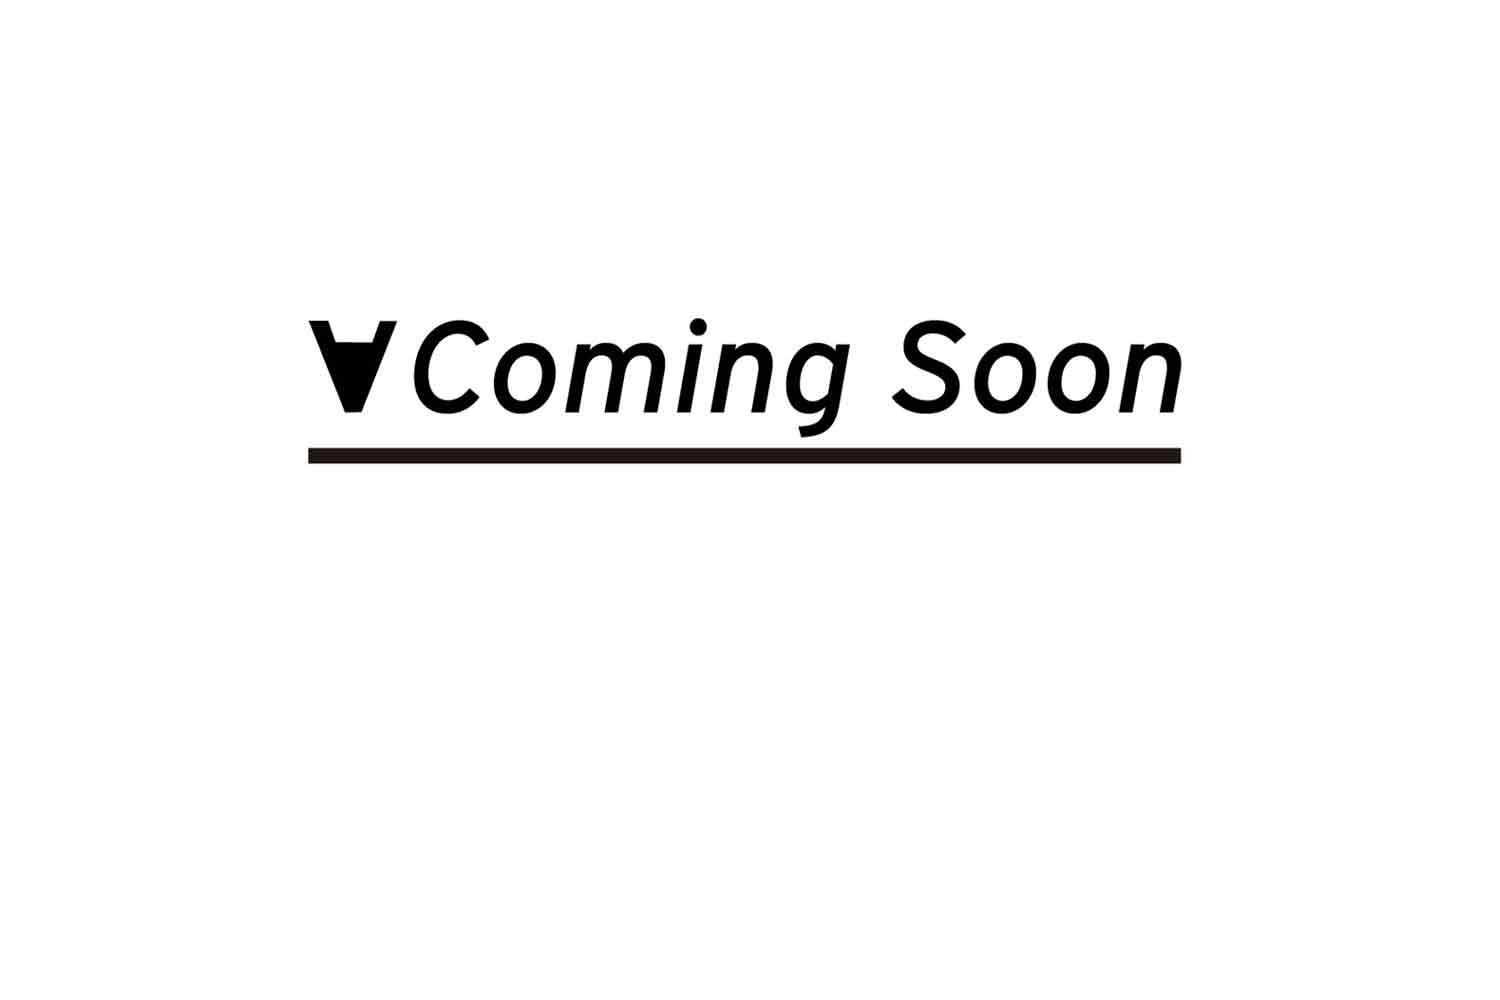
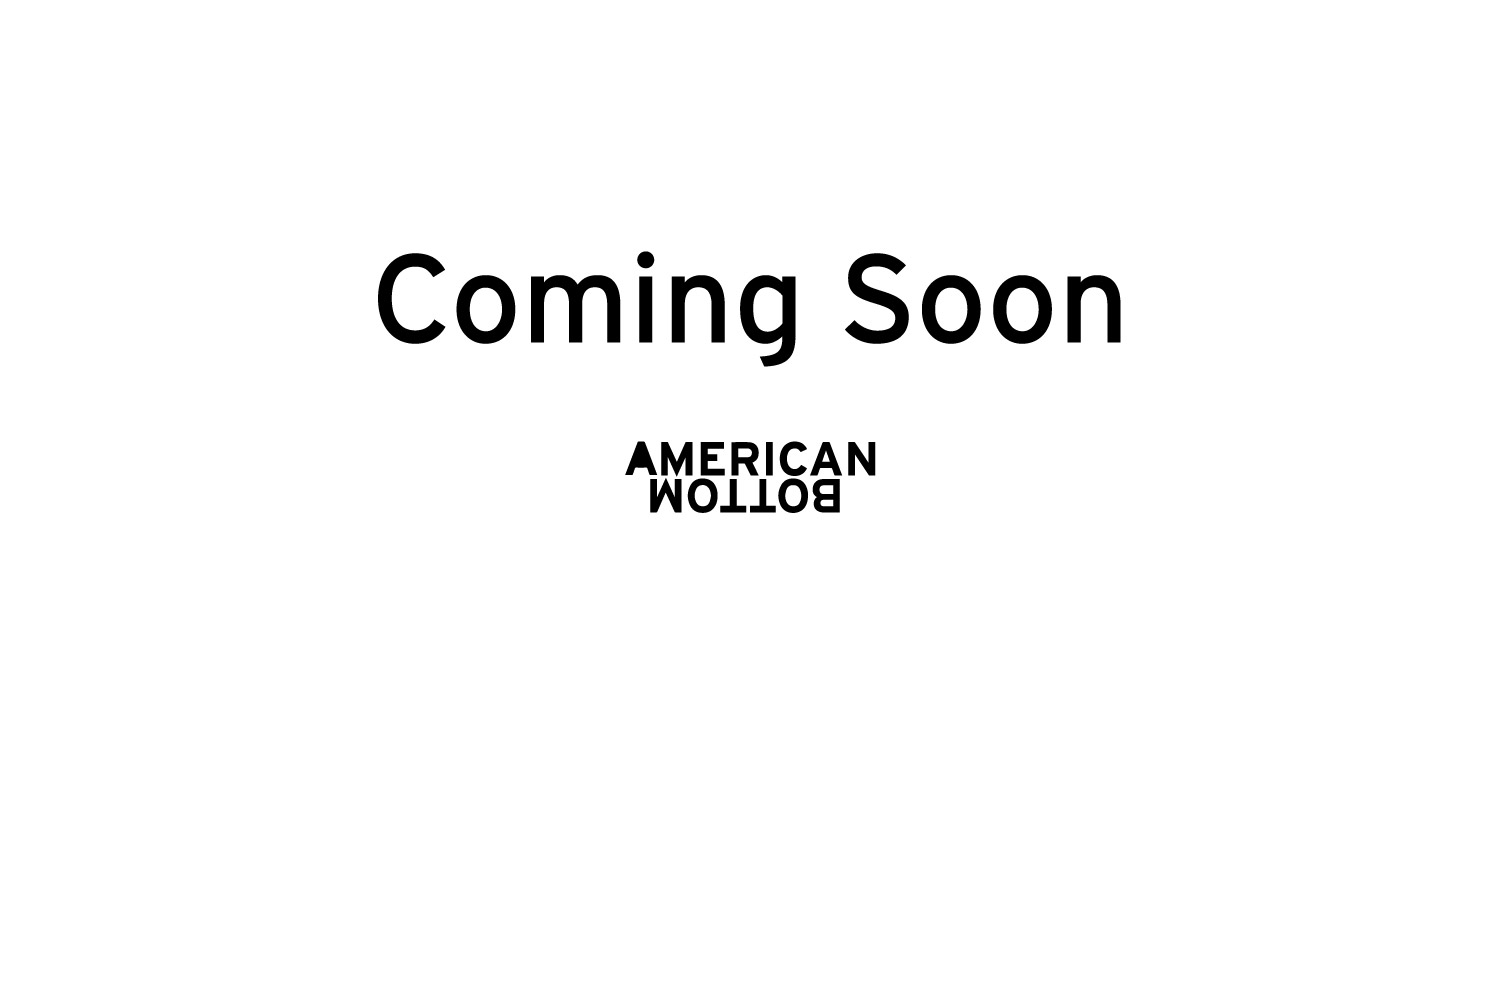
change placeholder images

Changed region(s): [[0.184, 0.248, 0.7973, 0.527]]

diff --git a/0pageIsFoundHere.html b/0pageIsFoundHere.html
@@ -51,10 +51,6 @@
 		</div>
 	</div>
 
-	<div class="site_Title">
-		<h2>Coming Soon</h2>
-	</div>
-
 </div>
 <script type="text/javascript" src="js/jquery-1.11.3.min.js"></script>
 <script type="text/javascript" src="js/streetviewToggle.js"></script>
